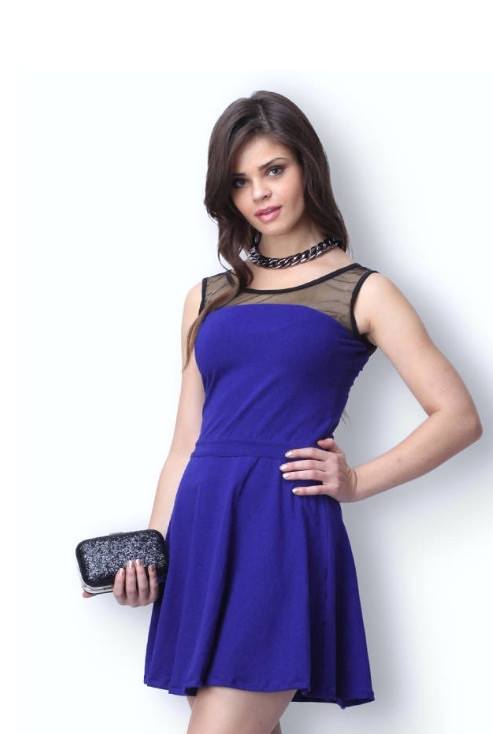
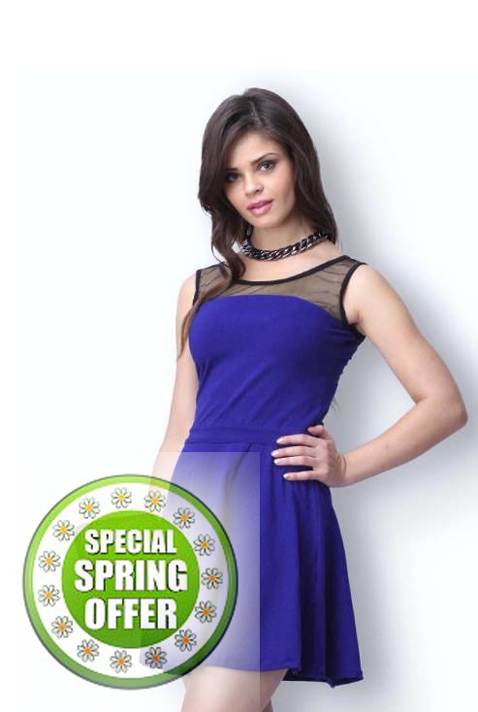
Updated

Changed region(s): [[0.0293, 0.618, 0.5565, 1.0]]

diff --git a/app/views/main.html b/app/views/main.html
@@ -1,20 +1,7 @@
 
   
 
-  <div class='row' style='font-size:25px;font-family:Caviar Dreams;text-align:center'>
-    <div class='col-md-3 col-sm-4 col-xs-3' >
-      Trendy
-    </div>
-    <div class='col-md-3 col-sm-3 col-xs-3'>
-      Formals
-    </div>
-    <div class='col-md-3 col-sm-3 col-xs-3'>
-      Casuals
-    </div>
-    <div class='col-md-3 col-sm-3 col-xs-3'>
-      Accessories
-    </div>
-  </div>
+  
 
   <div class='row'>
       <video id='video' style='margin:0px 0px 0px 15%' width="70%" height="auto" muted>
@@ -23,16 +10,117 @@
        Your browser does not support the video tag.
       </video>
   </div>
+  <br><br><br>
   <hr>
 
   <div class='row'>
-    <div class='col-md-8 '>
-      
+    <div class='col-md-1'></div>
+    <div class='col-md-5'>
+      <div class="flip-container" ontouchstart="this.classList.toggle('hover');">
+  <div class="flipper">
+    <div class="front">
       <img class='img img-responsive' src='../images/casual7-2.jpg'>
     </div>
-    <div class='col-md-4 '>
-      <div style='margin:50% 0px 0px 0px'><img class='img img-responsive' src='../images/sari2.jpg'></div>
+    <div class="back">
+      <img class='img img-responsive' src='../images/casual7-1.jpg'>
     </div>
+  </div>
+</div>
+      
+    </div>
+    <div class='col-md-6 '>
+      <div style='margin:30% 0px 10% 0px;width:100%'><img class='img img-responsive' src='../images/dress-sale.jpg'>
+    </div>
+  </div>
+</div>
+  <div class='row'>
+    <div class='col-md-1'></div>
+  <div class='col-md-3' style='margin:10% 0px 0px 0px'>
+  
+  <img class='img img-responsive' src='../images/dress-sale2.jpg'>
+</div>
+  <div class='col-md-5'>
+
+   
+ <div class="flip-container" ontouchstart="this.classList.toggle('hover');">
+  <div class="flipper">
+    <div class="front">
+      <img class='img img-responsive' src='../images/casual6-2.jpg'>
+    </div>
+    <div class="back">
+      <img class='img img-responsive' src='../images/casual6-1.jpg'>
+    </div>
+  </div>
+</div>
+
+
+
+
+
+
+
+
+
+
+
+
+
+
+ </div> 
+  
+  <div class='col-md-3'>
+<img class='img img-responsive' src='../images/casual2.jpg'>
+  </div>
+  </div>
+
+  <div class='row' style="font-size:10px;font-family:windings;color:grey;">
+    
+      <div class='navbar navbar-inverse' style='padding:2% 0px 2% 0px'>
+        <div class=' col-lg-2 col-md-2 col-sm-2 col-xs-2'></div>
+          <div class=' col-lg-2 col-md-2 col-sm-2 col-xs-2'>
+            <ul style='list-style-type:none'>
+              <li><strong>COMPANY</strong></li><br>
+              <li>ABOUT US</li>
+              <li>CAREERS</li>
+              <li>AFFILIATE PROGRAMS</li>
+              <li>SOCIAL RESPONSIBILITY</li>
+              <li>BUSINESS WITH US</li>
+              <li>PRESS AND TALENT</li>
+              <li>NEWSROOM</li>
+            </ul>
+          </div>
+          <div class=' col-lg-2 col-md-2 col-sm-2 col-xs-2'>
+                <ul style='list-style-type:none'>
+              <li><strong>HELP</strong></li><br>
+              <li>CONTACT US</li>
+              <li>TRACK ORDERS</li>
+              <li>FAQ'S</li>
+              <li>SHIPPING INFO</li>
+              
+            </ul>
+          </div>
+          <div class='col-lg-2 col-md-2 col-sm-2 col-xs-2'>
+                <ul style='list-style-type:none'>
+              <li><strong>TRENDING</strong></li><br>
+              
+              <li>DRESS</li>
+              <li>SHOES</li>
+              <li>KIMONO</li>
+              <li>CROP TOP</li>
+              <li>FORMALS</li>
+              
+            </ul>
+          </div>
+          <div class='col-lg-5 col-md-5 col-sm-5 col-xs-5'>
+           
+                <img class='img img-responsive' src='../images/social.jpg'>
+                <h5>Sign up for price alerts</h5>
+                <input  style='outline:red;width:30%;background:black;color:black' class='form-control' placeholder='Enter your email here'>
+                
+          </div>
+           
+      </div>
+    
   </div>
 
 

diff --git a/app/index.html b/app/index.html
@@ -24,28 +24,54 @@
     <!-- Add your site or application content here -->
     
 
-    <div class="container">
+    <div class="container" style='width:100%;padding:0px 0px 0px 0px'>
       <div class='row'>
-    <div class='col-md-4 col-sm-4 col-xs-4'>
-    </div>
-    <div class='col-md-4 col-sm-4 col-xs-4'>
-        <img  style='margin: 10px 0px 0px 0px' class='img img-responsive' src='images/closet logo.png'>
-
-    </div>
-    <div class='col-md-4 col-sm-4 col-xs-4'>
+        <div class='col-md-12 col-sm-12 col-xs-12' style='position:fixed;background:black;opacity:0.8;z-index:1000'>
+        <!-- <div  style='position:fixed;margin:0px 0px 0px 20%;background:grey'> -->
+    <div class='col-md-5 col-sm-5 col-xs-5'>
       <div id="wrap" style='float:left'>
         <form action="" autocomplete="on">
           <input id="search" name="search" type="text" placeholder="Search here"><input id="search_submit" value="Rechercher" type="submit">
         </form>
       </div>
+    </div>
+    <div class='col-md-3 col-sm-3 col-xs-3'>
+        <img  style='margin: 5% 0px 5% 0px' class='img img-responsive' src='images/closet logo.png'>
+
+    </div>
+    
+    <div class='col-md-2 col-sm-2 col-xs-2'></div>
+    <div class='col-md-2 col-sm-2 col-xs-2'>
+      
+      
       <select style='border:none;font-family:comic sans;margin:4% 0px 0px 5%'>
         <option>EN</option>
         <option>NEP</option>
         <option>SP</option>
       </select>
     </div>
+    
+  
+</div>
   </div>
-    <div ng-view=""></div>
+
+  <div class='row' style='font-size:25px;margin:15% 0px 0px 0px;font-family:Caviar Dreams;text-align:center'>
+    <div class='col-md-3 col-sm-4 col-xs-3' >
+      <a href='#/'>Trendy</a>
+    </div>
+    <div class='col-md-3 col-sm-3 col-xs-3'>
+      <a href='#/'>Formals</a>
+    </div>
+    <div class='col-md-3 col-sm-3 col-xs-3'>
+      <a href='#/'>Casuals</a>
+    </div>
+    <div class='col-md-3 col-sm-3 col-xs-3'>
+      <a href='#/<p></p>'>Plus Size</a>
+    </div>
+  </div>
+
+
+    <div ng-view="" ></div>
     
     </div>
 

diff --git a/app/styles/main.scss b/app/styles/main.scss
@@ -20,7 +20,7 @@ height: 30px;
   font-weight: 100;
   border: none;
   outline: none;
-  color: #555;
+  color: white;
   padding: 3px;
   padding-right: 60px;
   width: 0px;
@@ -38,7 +38,7 @@ input[type="text"]:focus:hover {
 }
 
 input[type="text"]:focus {
-  width: 200px;
+  width: 110px;
   z-index: 1;
   border-bottom: 1px solid #BBB;
   cursor: text;
@@ -66,4 +66,47 @@ input[type="submit"] {
 
 input[type="submit"]:hover {
   opacity: 0.8;
+}
+
+/* entire container, keeps perspective */
+.flip-container {
+  -webkit-perspective: 1000;
+}
+  /* flip the pane when hovered */
+  .flip-container:hover .flipper, .flip-container.hover .flipper {
+    transform: rotateY(180deg);
+  }
+
+.flip-container, .front, .back {
+  width: 551px;
+  height: 756px;
+}
+
+/* flip speed goes here */
+.flipper {
+  transition: 0.6s;
+  transform-style: preserve-3d;
+
+  position: relative;
+}
+
+/* hide back of pane during swap */
+.front, .back {
+  backface-visibility: hidden;
+
+  position: absolute;
+  top: 0;
+  left: 0;
+}
+
+/* front pane, placed above back */
+.front {
+  z-index: 2;
+  /* for firefox 31 */
+  transform: rotateY(0deg);
+}
+
+/* back, initially hidden pane */
+.back {
+  transform: rotateY(180deg);
 }

diff --git a/app/styles/main.css b/app/styles/main.css
@@ -16,7 +16,7 @@ input[type="text"] {
   font-weight: 100;
   border: none;
   outline: none;
-  color: #555;
+  color: yellow;
   padding: 3px;
   padding-right: 60px;
   width: 0px;
